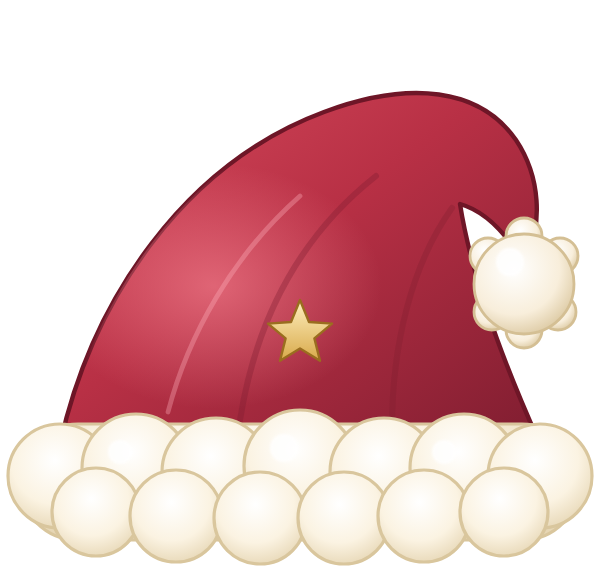
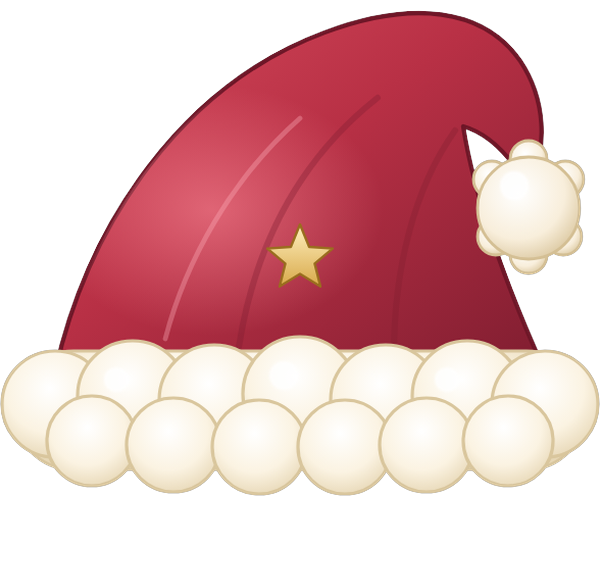
Beta: gorro reposicionado
Claude-Session: https://claude.ai/code/session_01K2VXyFiT7zoPcX7tHk3zoS

diff --git a/beta/sw.js b/beta/sw.js
@@ -1,5 +1,5 @@
 /* Jogos Bíblicos — funciona sem internet. Versão: claude-v2.1-nine5 */
-const CACHE = 'jb-beta-claude-v2.4-advento3';
+const CACHE = 'jb-beta-claude-v2.4-advento4';
 const ASSETS = ['./', './Cinzel-Variable.woff', './Lora-Italic-Variable.woff', './Lora-Variable.woff', './app.css', './aurora.svg', './campo.svg', './cidade.svg', './confins.svg', './core.js', './dados-caca.js', './dados-cartas.js', './dados-colorir.js', './dados-cruzada.js', './dados-historia1.js', './dados-historia10.js', './dados-historia11.js', './dados-historia12.js', './dados-historia13.js', './dados-historia14.js', './dados-historia15.js', './dados-historia16.js', './dados-historia17.js', './dados-historia18.js', './dados-historia19.js', './dados-historia2.js', './dados-historia20.js', './dados-historia21.js', './dados-historia22.js', './dados-historia23.js', './dados-historia24.js', './dados-historia25.js', './dados-historia26.js', './dados-historia27.js', './dados-historia28.js', './dados-historia29.js', './dados-historia3.js', './dados-historia30.js', './dados-historia31.js', './dados-historia32.js', './dados-historia33.js', './dados-historia34.js', './dados-historia4.js', './dados-historia5.js', './dados-historia6.js', './dados-historia7.js', './dados-historia8.js', './dados-historia9.js', './dados-kids.js', './dados-ligacoes.js', './dados-memoria.js', './dados-natal.js', './dados-advento.js', './natal-estrela.webp', './natal-manjedoura.webp', './natal-lanterna.webp', './natal-belem.webp', './dados-palavra.js', './dados-quem.js', './dados-quiz.js', './dados-roda.js', './dados-tempo.js', './dados-versiculos.js', './deserto.svg', './galileia.svg', './hat.png', './hub.js', './icon-180.png', './icon-192.png', './icon-512.png', './index.html', './jardim.svg', './jogo-caca.js', './jogo-cartas.js', './jogo-colorir.js', './jogo-cruzada.js', './jogo-historia.js', './jogo-kids.js', './jogo-labirinto.js', './jogo-ligacoes.js', './jogo-memoria.js', './jogo-natal.js', './jogo-palavra.js', './jogo-quebra.js', './jogo-quem.js', './jogo-quiz.js', './jogo-roda.js', './jogo-tempo.js', './jogo-versiculo.js', './kit.js', './manifest.webmanifest', './mar.svg', './monte.svg', './nine-dica-pisca.webp', './nine-dica.webp', './nine-dormindo.webp', './nine-festa.webp', './nine-lendo-pisca.webp', './nine-lendo.webp', './nine-oi-pisca.webp', './nine-oi.webp', './nine-pensando-pisca.webp', './nine-pensando.webp', './nine-rosto.webp', './nine-sarca.webp', './nine.js', './noite.svg', './palacio.svg', './solver.js', './tumba.jpg'];
 self.addEventListener('install', e => { e.waitUntil(caches.open(CACHE).then(c => c.addAll(ASSETS)).then(() => self.skipWaiting())); });
 self.addEventListener('activate', e => { e.waitUntil(caches.keys().then(ks => Promise.all(ks.filter(k => k !== CACHE && k.startsWith('jb-beta')).map(k => caches.delete(k)))).then(() => self.clients.claim())); });
